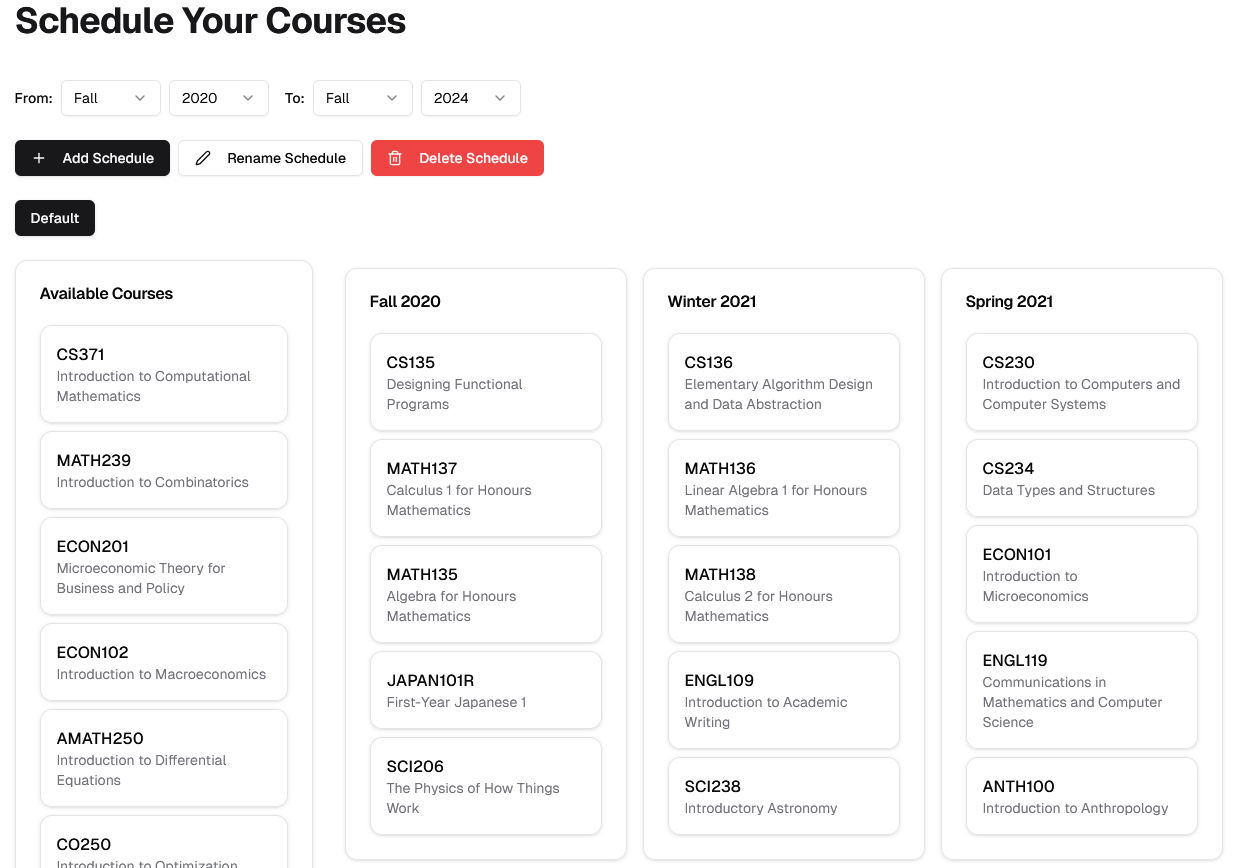
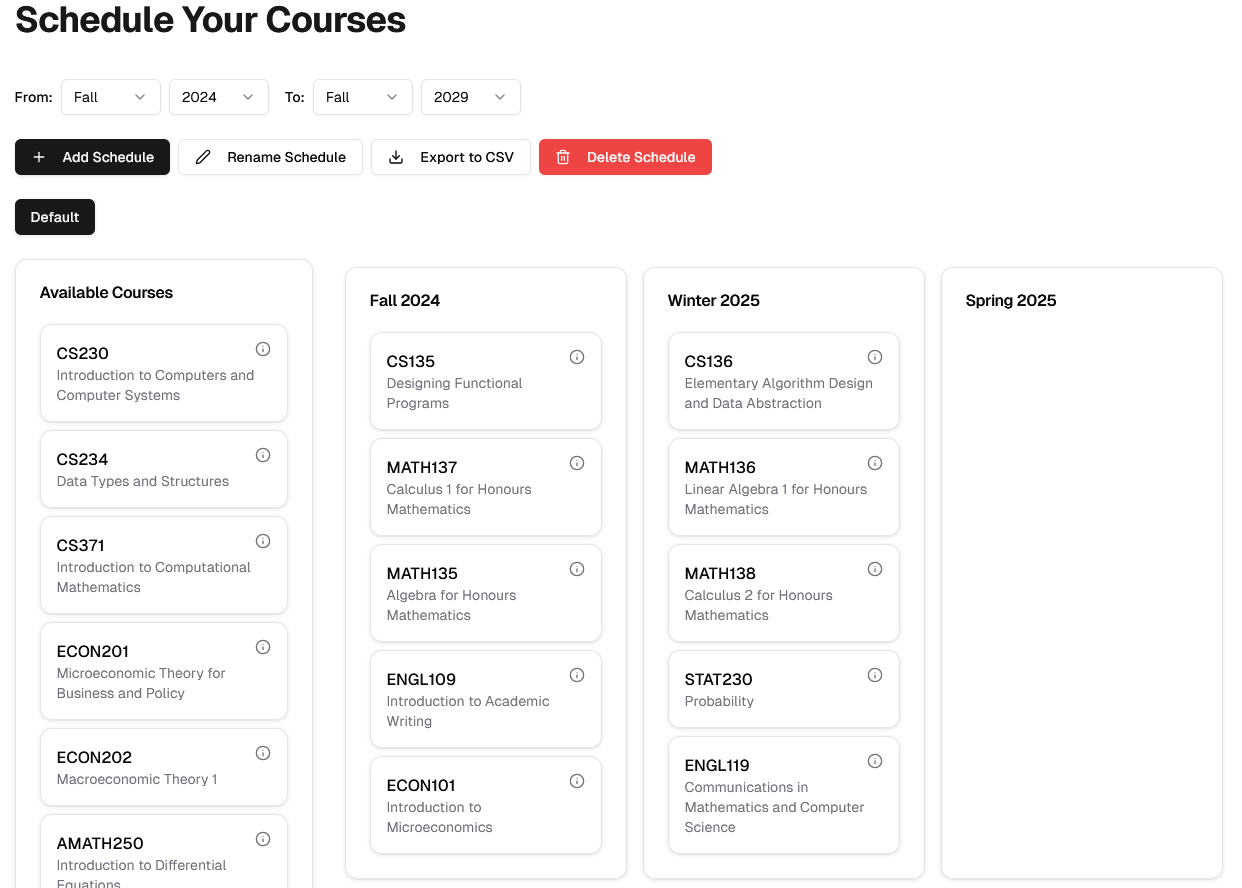
feat: add schedule export functionality and implement form validation for schedule creation and renaming

diff --git a/src/app/(app)/schedule/Scheduler.tsx b/src/app/(app)/schedule/Scheduler.tsx
@@ -1,5 +1,8 @@
 "use client";
 
+import { zodResolver } from "@hookform/resolvers/zod";
+import { useForm } from "react-hook-form";
+import { z } from "zod";
 import { cn, generateTerms } from "@/lib/utils";
 import {
   addCourseToScheduleAction,
@@ -30,6 +33,26 @@ import { DraggableCourseCard } from "./DraggableCourseCard";
 import { MobileScheduler } from "./MobileScheduler";
 import { TermRangeSelector } from "./TermRangeSelector";
 import { toast } from "sonner";
+import { ExportButton } from "./ExportButton";
+import {
+  Form,
+  FormControl,
+  FormField,
+  FormItem,
+  FormLabel,
+  FormMessage,
+} from "@/components/ui/form";
+
+const scheduleFormSchema = z.object({
+  name: z
+    .string()
+    .min(1, {
+      message: "Schedule name is required.",
+    })
+    .max(20, {
+      message: "Schedule name cannot be longer than 20 characters.",
+    }),
+});
 
 type Props = {
   coursesToSchedule: TermCourseInstance[];
@@ -41,8 +64,28 @@ type Props = {
 
 function AddScheduleDialog() {
   const [open, setOpen] = useState(false);
-  const [name, setName] = useState("");
   const [isLoading, setIsLoading] = useState(false);
+  const form = useForm<z.infer<typeof scheduleFormSchema>>({
+    resolver: zodResolver(scheduleFormSchema),
+    defaultValues: {
+      name: "",
+    },
+  });
+
+  const onSubmit = async (values: z.infer<typeof scheduleFormSchema>) => {
+    setIsLoading(true);
+    try {
+      await createScheduleAction(values.name);
+      form.reset();
+      setOpen(false);
+      toast.success("Schedule created");
+    } catch (error) {
+      console.error("Failed to create schedule", error);
+      toast.error("Failed to create schedule");
+    } finally {
+      setIsLoading(false);
+    }
+  };
 
   return (
     <Dialog open={open} onOpenChange={setOpen}>
@@ -56,35 +99,26 @@ function AddScheduleDialog() {
         <DialogHeader>
           <DialogTitle>New Schedule</DialogTitle>
         </DialogHeader>
-        <div className="space-y-4">
-          <Input
-            placeholder="Schedule name"
-            value={name}
-            onChange={(e) => setName(e.target.value)}
-            maxLength={20}
-          />
-          <Button
-            disabled={isLoading}
-            onClick={async () => {
-              if (name) {
-                setIsLoading(true);
-                try {
-                  await createScheduleAction(name);
-                  setName("");
-                  setOpen(false);
-                  toast.success("Schedule created");
-                } catch (error) {
-                  console.error("Failed to create schedule", error);
-                  toast.error("Failed to create schedule");
-                } finally {
-                  setIsLoading(false);
-                }
-              }
-            }}
-          >
-            {isLoading ? "Creating..." : "Create"}
-          </Button>
-        </div>
+        <Form {...form}>
+          <form onSubmit={form.handleSubmit(onSubmit)} className="space-y-4">
+            <FormField
+              control={form.control}
+              name="name"
+              render={({ field }) => (
+                <FormItem>
+                  <FormLabel>Schedule Name</FormLabel>
+                  <FormControl>
+                    <Input placeholder="Schedule name" {...field} />
+                  </FormControl>
+                  <FormMessage />
+                </FormItem>
+              )}
+            />
+            <Button type="submit" disabled={isLoading}>
+              {isLoading ? "Creating..." : "Create"}
+            </Button>
+          </form>
+        </Form>
       </DialogContent>
     </Dialog>
   );
@@ -98,8 +132,28 @@ function RenameScheduleDialog({
   currentName: string;
 }) {
   const [open, setOpen] = useState(false);
-  const [name, setName] = useState("");
   const [isLoading, setIsLoading] = useState(false);
+  const form = useForm<z.infer<typeof scheduleFormSchema>>({
+    resolver: zodResolver(scheduleFormSchema),
+    defaultValues: {
+      name: "",
+    },
+  });
+
+  const onSubmit = async (values: z.infer<typeof scheduleFormSchema>) => {
+    setIsLoading(true);
+    try {
+      await changeScheduleNameAction(scheduleId, values.name);
+      form.reset();
+      setOpen(false);
+      toast.success("Schedule renamed");
+    } catch (error) {
+      console.error("Failed to rename schedule", error);
+      toast.error("Failed to rename schedule");
+    } finally {
+      setIsLoading(false);
+    }
+  };
 
   return (
     <Dialog open={open} onOpenChange={setOpen}>
@@ -113,34 +167,26 @@ function RenameScheduleDialog({
         <DialogHeader>
           <DialogTitle>Rename Schedule</DialogTitle>
         </DialogHeader>
-        <div className="space-y-4">
-          <Input
-            placeholder={currentName}
-            value={name}
-            onChange={(e) => setName(e.target.value)}
-            maxLength={20}
-          />
-          <Button
-            disabled={isLoading}
-            onClick={async () => {
-              if (name) {
-                setIsLoading(true);
-                try {
-                  await changeScheduleNameAction(scheduleId, name);
-                  setOpen(false);
-                  toast.success("Schedule renamed");
-                } catch (error) {
-                  console.error("Failed to rename schedule", error);
-                  toast.error("Failed to rename schedule");
-                } finally {
-                  setIsLoading(false);
-                }
-              }
-            }}
-          >
-            {isLoading ? "Renaming..." : "Rename"}
-          </Button>
-        </div>
+        <Form {...form}>
+          <form onSubmit={form.handleSubmit(onSubmit)} className="space-y-4">
+            <FormField
+              control={form.control}
+              name="name"
+              render={({ field }) => (
+                <FormItem>
+                  <FormLabel>New Name</FormLabel>
+                  <FormControl>
+                    <Input placeholder={currentName} {...field} />
+                  </FormControl>
+                  <FormMessage />
+                </FormItem>
+              )}
+            />
+            <Button type="submit" disabled={isLoading}>
+              {isLoading ? "Renaming..." : "Rename"}
+            </Button>
+          </form>
+        </Form>
       </DialogContent>
     </Dialog>
   );
@@ -230,8 +276,10 @@ export function Scheduler({
                 scheduleId={activeScheduleId}
                 currentName={activeSchedule.name}
               />
+              <ExportButton scheduleId={activeScheduleId} />
               <Button
                 variant="destructive"
+                disabled={schedules.length <= 1}
                 onClick={async () => {
                   if (
                     confirm("Are you sure you want to delete this schedule?")

diff --git a/src/server/actions.ts b/src/server/actions.ts
@@ -1,7 +1,7 @@
 'use server';
 
 import { revalidatePath } from 'next/cache';
-import { addCourseToSchedule, changeScheduleName, changeTermRange, createSchedule, createTemplate, deleteSchedule, getSchedules, removeCourseFromSchedule, removeCourseSelection, toggleCourse, toggleUserTemplate, validateScheduleId, updateFreeCourse, getRole, deleteTemplate } from '@/server/db/queries';
+import { addCourseToSchedule, changeScheduleName, changeTermRange, createSchedule, createTemplate, deleteSchedule, getSchedules, removeCourseFromSchedule, removeCourseSelection, toggleCourse, toggleUserTemplate, validateScheduleId, updateFreeCourse, getRole, deleteTemplate, getSelectedCourses, getScheduleCourses } from '@/server/db/queries';
 import { auth } from './auth';
 import { type CreateTemplateInput } from '@/types/template';
 import { type Season } from '@/types/schedule';
@@ -146,4 +146,51 @@ export async function changeTermRangeAction(startTerm: Season, startYear: number
   }
   await changeTermRange(session.user.id, startTerm, startYear, endTerm, endYear);
   revalidatePath('/schedule');
+}
+
+
+
+export async function exportScheduleToCSV(scheduleId: string) {
+  const session = await auth()
+  if (!session?.user) {
+    throw new Error('Not authenticated')
+  }
+
+  const selectedCourses = await getSelectedCourses(session.user.id)
+  const scheduledCourses = await getScheduleCourses(scheduleId)
+
+  // Helper function to escape CSV field
+  const escapeField = (field: string) => {
+    if (field.includes(',') || field.includes('"')) {
+      return `"${field.replace(/"/g, '""')}"`
+    }
+    return field
+  }
+
+  const coursesByTerm = new Map<string, string[]>();
+
+  for (const course of scheduledCourses) {
+    if (!course.term) continue;
+    if (!coursesByTerm.has(course.term)) {
+      coursesByTerm.set(course.term, []);
+    }
+    coursesByTerm.get(course.term)?.push(escapeField(`${course.courseCode}`));
+  }
+
+  let csvContent = 'Selected Courses:\n'
+  selectedCourses.forEach(course => {
+    csvContent += escapeField(`${course.courseCode} - ${course.courseName}`) + '\n'
+  })
+
+  csvContent += '\nScheduled Courses:\n'
+
+  const maxCourses = Math.max(...Array.from(coursesByTerm.values()).map(courses => courses.length))
+  csvContent += Array.from(coursesByTerm.keys()).map(escapeField).join(',') + '\n'
+
+  for (let i = 0; i < maxCourses; i++) {
+    const row = Array.from(coursesByTerm.values()).map(courses => courses[i] ?? '').join(',')
+    csvContent += row + '\n'
+  }
+
+  return csvContent
 }

diff --git a/src/app/(app)/schedule/ExportButton.tsx b/src/app/(app)/schedule/ExportButton.tsx
@@ -1,0 +1,41 @@
+"use client";
+
+import { Button } from "@/components/ui/button";
+import { exportScheduleToCSV } from "@/server/actions";
+import { Download } from "lucide-react";
+import { useState } from "react";
+
+export function ExportButton({ scheduleId }: { scheduleId: string }) {
+  const [isExporting, setIsExporting] = useState(false);
+
+  const handleExport = async () => {
+    setIsExporting(true);
+    try {
+      const csvContent = await exportScheduleToCSV(scheduleId);
+
+      // Create blob from CSV content
+      const blob = new Blob([csvContent], {
+        type: "text/csv;charset=utf-8",
+      });
+      const url = window.URL.createObjectURL(blob);
+      const a = document.createElement("a");
+      a.href = url;
+      a.download = `schedule-${scheduleId}.csv`;
+      document.body.appendChild(a);
+      a.click();
+      window.URL.revokeObjectURL(url);
+      a.remove();
+    } catch (error) {
+      console.error("Failed to export schedule:", error);
+    } finally {
+      setIsExporting(false);
+    }
+  };
+
+  return (
+    <Button onClick={handleExport} variant="outline" disabled={isExporting}>
+      <Download className="mr-2 h-4 w-4" />
+      {isExporting ? "Exporting..." : "Export to CSV"}
+    </Button>
+  );
+}
